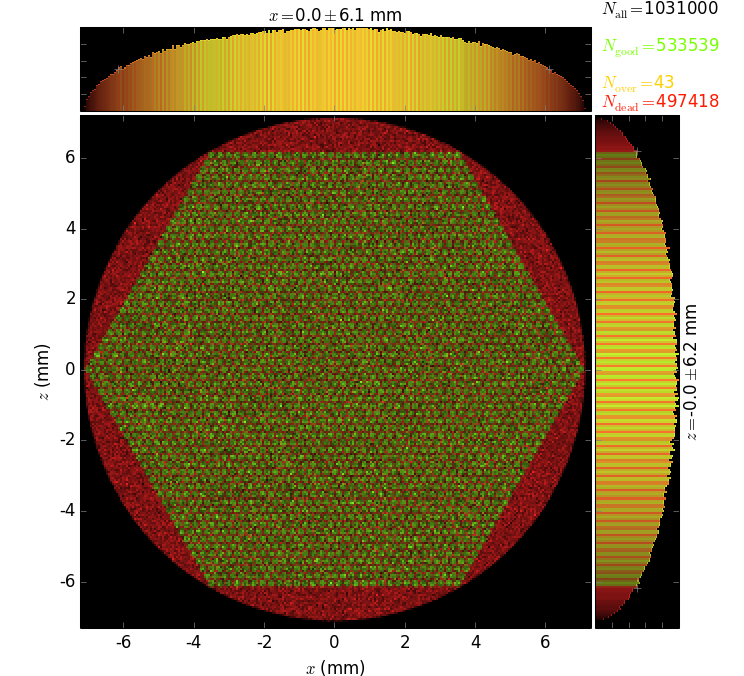
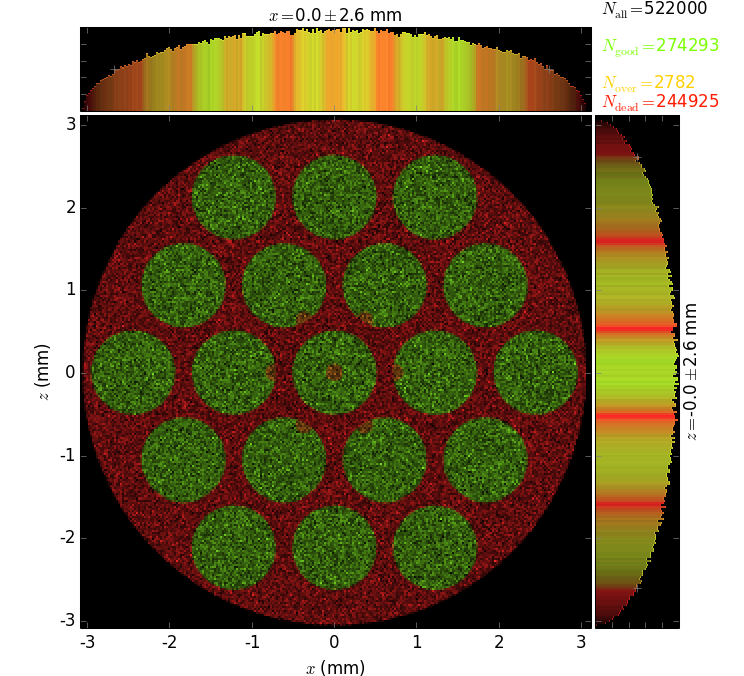
3 layers 1.3ks, max div 0.0211

diff --git a/myCapillary0A.py b/myCapillary0A.py
@@ -24,9 +24,9 @@ mGlass = rm.Material(('Si', 'O'), quantities=(1, 2), rho=2.2)
 E0 = 9000.
 rSample = 100.
 f = 500.
-r0 = 0.1
-wall = 0.02
-layers = 30 # number of hexagonal layers
+r0 = 0.51
+wall = 0.1
+layers = 3 # number of hexagonal layers
 nRefl = 12
 nReflDisp = 12
 xzPrimeMax = 3.
@@ -195,8 +195,8 @@ def main():
     plot.baseName = 'NCapillaries-a-FSM1Cat'
     plot.saveName = plot.baseName + '.png'
     plots.append(plot)
-    xrtr.run_ray_tracing(plots, repeats=1000*2, beamLine=beamLine,
-                         processes=1)
+    xrtr.run_ray_tracing(plots, repeats=1000, beamLine=beamLine,
+                         processes=2)
 
 #    for i in beamLine.firstInLayer:
 #   capillariesToShow = 0, (layers-1)/2, layers-1    
